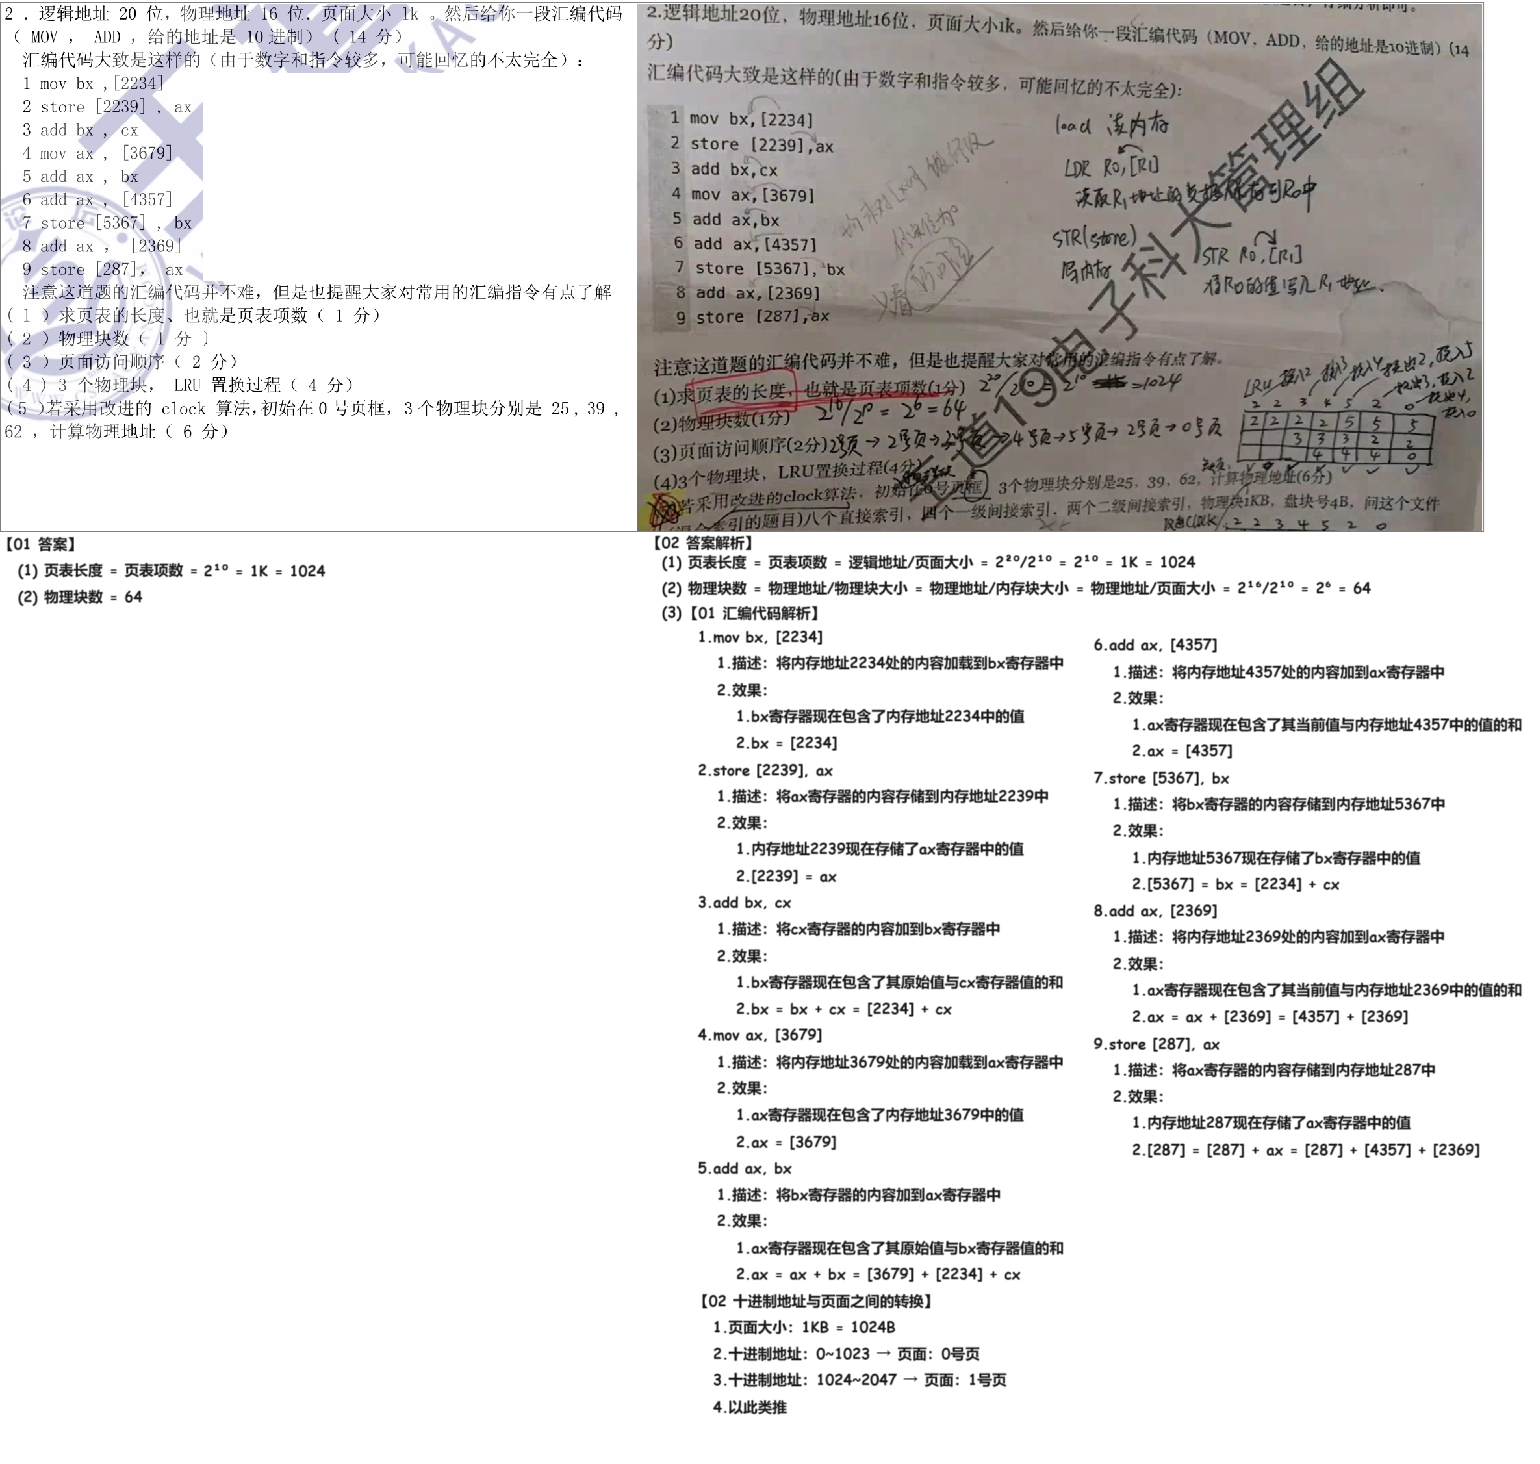
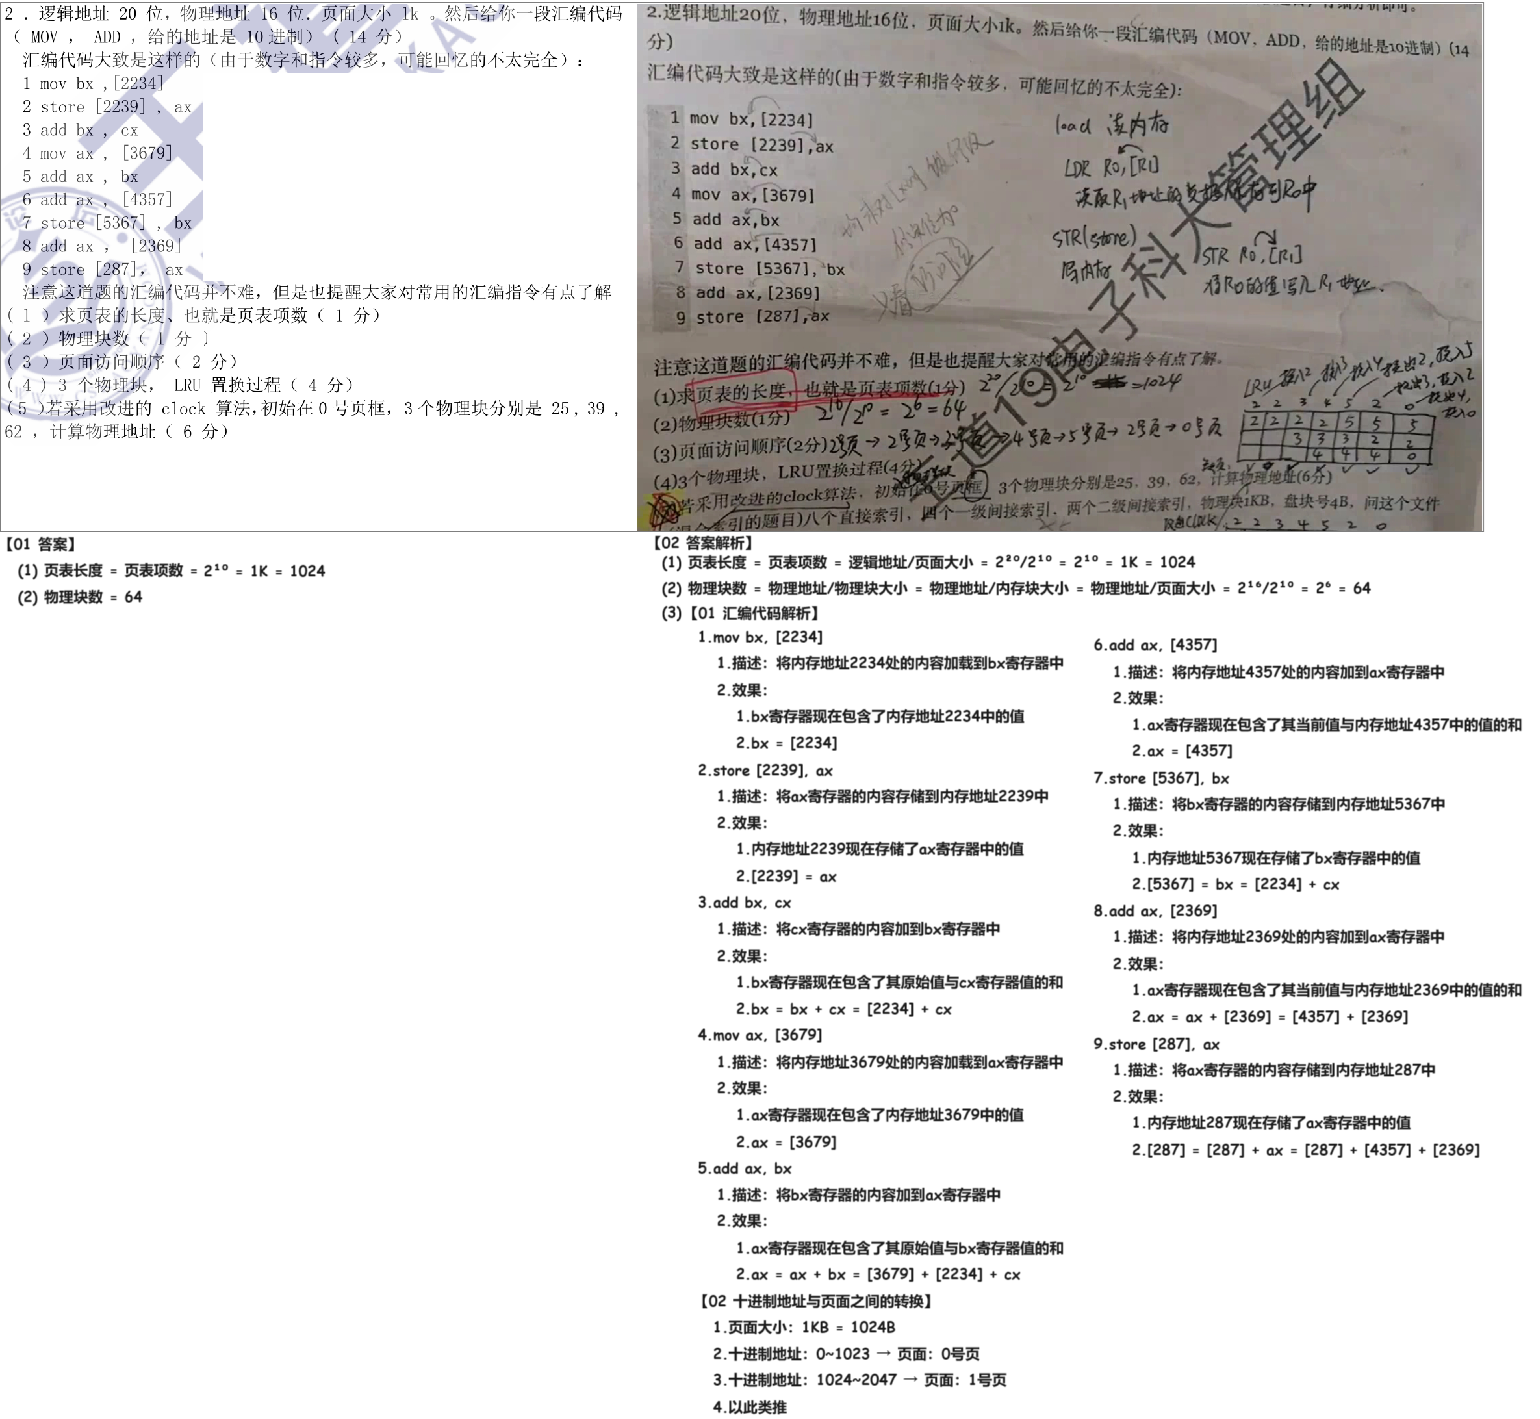
2408067

diff --git a/01 初试/01 OS/01 题集/01 820 14 = 9 + 5/02 19 5 = 3 + 2/02 大题 2/01 计算题 2/01 计算题02 汇编代码 LRU置换算法 改进型CLOCK置换算法 240806/02 Doc.md b/01 初试/01 OS/01 题集/01 820 14 = 9 + 5/02 19 5 = 3 + 2/02 大题 2/01 计算题 2/01 计算题02 汇编代码 LRU置换算法 改进型CLOCK置换算法 240806/02 Doc.md
@@ -1,6 +1,6 @@
 # 00 背诵
 
-<img src="https://cvp.oss-cn-shanghai.aliyuncs.com/picgo/202408062150490.png" alt="image-20240806215037717" style="zoom:50%;" />
+<img src="https://cvp.oss-cn-shanghai.aliyuncs.com/picgo/202408070923931.png" alt="image-20240807092336418" style="zoom:50%;" />
 
 
 
